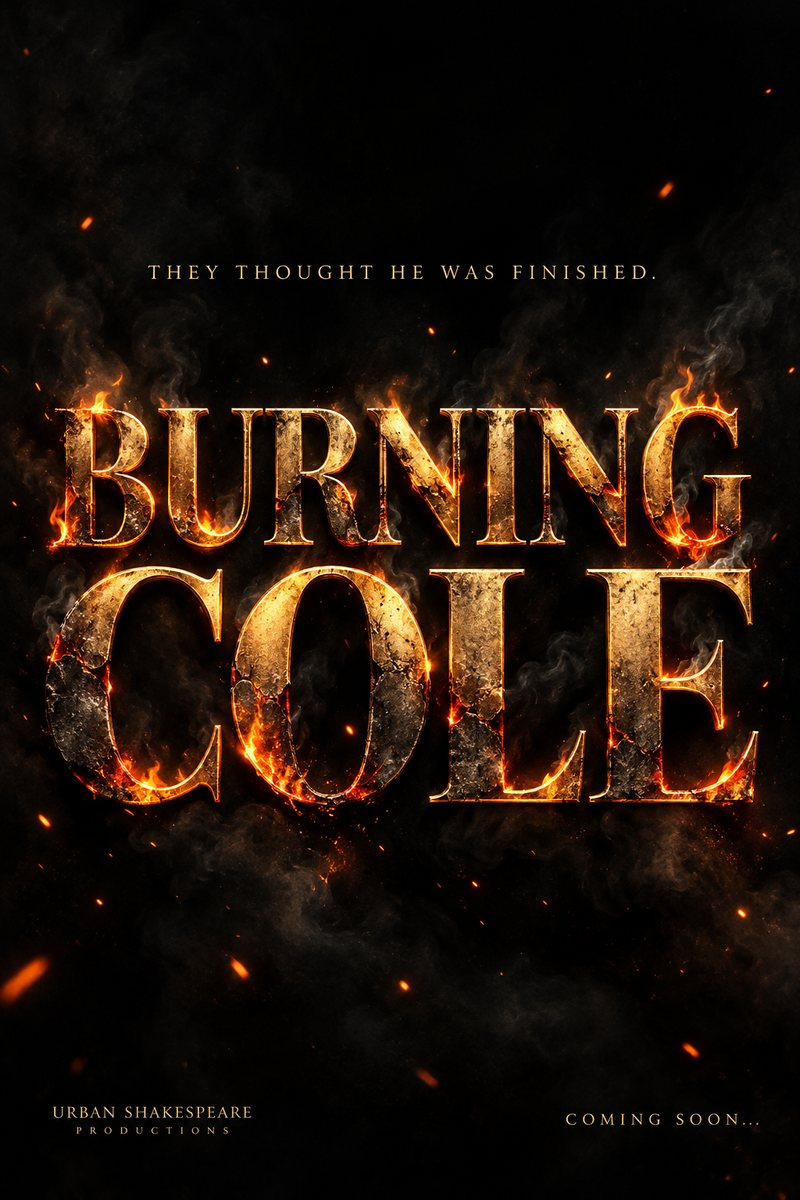
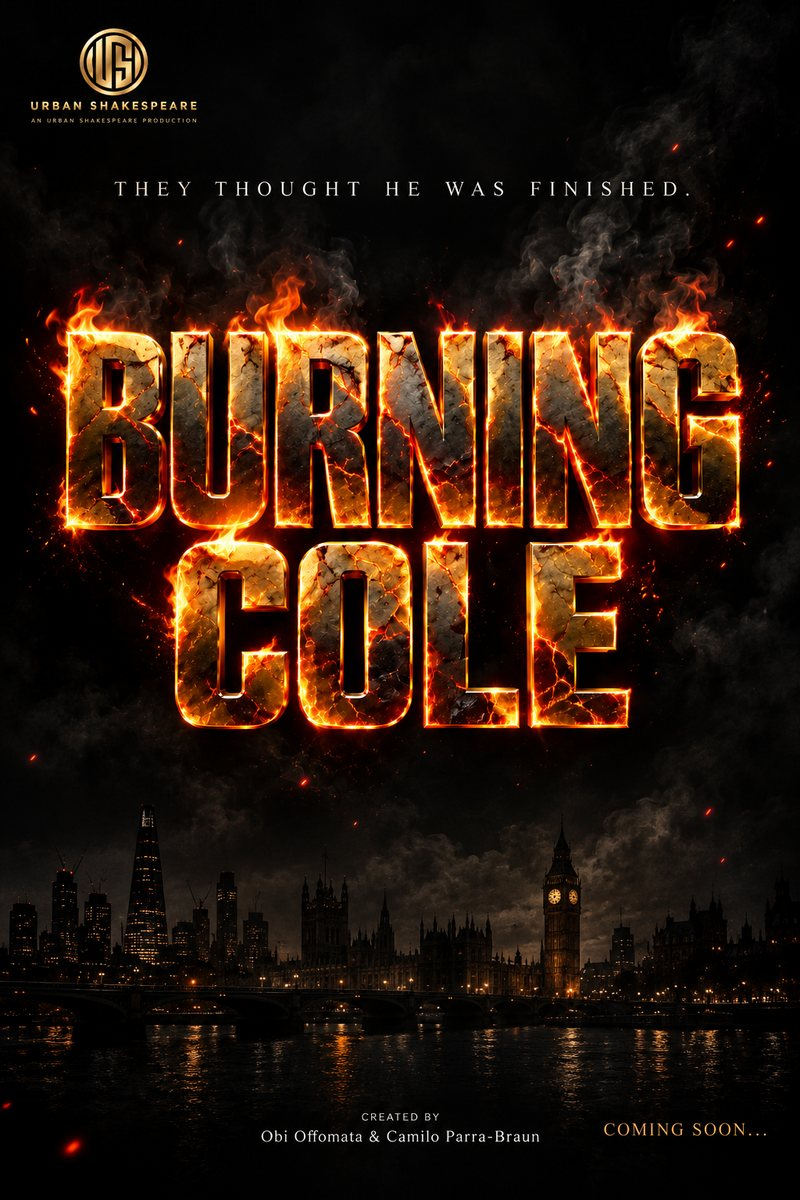
Replace Burning Cole posters with the recovered set
Claude-Session: https://claude.ai/code/session_013euigWjvx5WnN6LQU8fXHE

diff --git a/index.html b/index.html
@@ -254,7 +254,7 @@ footer .wrap{display:flex;justify-content:space-between;gap:20px;flex-wrap:wrap}
     <div class="row-head"><h2>Now in development</h2><a class="label" href="#slate">Full slate →</a></div>
     <div class="posters">
       <a class="poster p-cole art" href="#burning-cole">
-        <img class="key" src="posters/burning-cole-booth.jpg" alt="" width="800" height="1200">
+        <img class="key" src="posters/burning-cole-cole.jpg" alt="" width="800" height="1200">
         <span class="sr">Burning Cole, a dark comedy series. They thought he was finished.</span>
         <span class="status">Concept trailer</span>
       </a>
@@ -293,7 +293,7 @@ footer .wrap{display:flex;justify-content:space-between;gap:20px;flex-wrap:wrap}
     <h1 style="font-size:var(--step-4);font-weight:500;margin:12px 0 18px">Every project, one room each</h1>
     <p style="color:var(--dust);font-size:var(--step-1);font-weight:300">Open any title for its story, characters, episodes, trailer and artwork.</p>
     <div class="posters" style="margin-top:40px">
-      <a class="poster p-cole art" href="#burning-cole"><img class="key" src="posters/burning-cole-booth.jpg" alt="" width="800" height="1200"><span class="sr">Burning Cole, a dark comedy series</span><span class="status">Concept trailer</span></a>
+      <a class="poster p-cole art" href="#burning-cole"><img class="key" src="posters/burning-cole-cole.jpg" alt="" width="800" height="1200"><span class="sr">Burning Cole, a dark comedy series</span><span class="status">Concept trailer</span></a>
       <a class="poster p-ikenga" href="#ikenga"><span class="label genre">Crime action thriller</span><h3>Ikenga</h3><span class="status">In development</span></a>
       <a class="poster p-us" href="#collective"><span class="label genre">Drama</span><h3>Urban Shakespeare</h3><span class="status">Season one written</span></a>
       <a class="poster p-open" href="#join"><span class="label genre">Open slot</span><h3>Your story</h3><span class="status">Submissions open</span></a>
@@ -385,13 +385,13 @@ footer .wrap{display:flex;justify-content:space-between;gap:20px;flex-wrap:wrap}
     </div>
     <div class="panel" data-panel="artwork" hidden>
       <div class="artwall">
-        <figure><img src="posters/burning-cole-booth.jpg" alt="Burning Cole poster: Cole in a red velvet booth at Club 108" width="800" height="1200" loading="lazy"><figcaption>Cole at Club 108</figcaption></figure>
+        <figure><img src="posters/burning-cole-fall.jpg" alt="Burning Cole teaser poster: a man falling between an upside-down London and the burning title" width="800" height="1200" loading="lazy"><figcaption>Teaser: the fall</figcaption></figure>
+        <figure><img src="posters/burning-cole-title.jpg" alt="Burning Cole title poster in burning letters over the London skyline" width="800" height="1200" loading="lazy"><figcaption>Title poster</figcaption></figure>
+        <figure><img src="posters/burning-cole-cole.jpg" alt="Burning Cole poster: Cole on a rainy London night outside the club" width="800" height="1200" loading="lazy"><figcaption>Cole Sinclair</figcaption></figure>
         <figure><img src="posters/burning-cole-cast-street.jpg" alt="Burning Cole cast poster outside the club on a wet London night" width="800" height="1200" loading="lazy"><figcaption>The cast: outside the club</figcaption></figure>
+        <figure><img src="posters/burning-cole-cast-shattered.jpg" alt="Burning Cole cast poster with the cast framed in shards of broken glass" width="800" height="1200" loading="lazy"><figcaption>The cast: shattered glass</figcaption></figure>
+        <figure><img src="posters/burning-cole-cast-group.jpg" alt="Burning Cole cast poster with the cast on a London street at night" width="800" height="1200" loading="lazy"><figcaption>The cast: London streets</figcaption></figure>
         <figure><img src="posters/burning-cole-cast-lounge.jpg" alt="Burning Cole cast poster in the club's VIP lounge" width="800" height="1200" loading="lazy"><figcaption>The cast: VIP lounge</figcaption></figure>
-        <figure><img src="posters/burning-cole-city-fall.jpg" alt="Burning Cole teaser poster: a man falling between an upside-down London skyline and the burning city below" width="800" height="1200" loading="lazy"><figcaption>Teaser: London falls</figcaption></figure>
-        <figure><img src="posters/burning-cole-key-art.jpg" alt="Burning Cole key art: Cole on a rainy London night, with Club 108 and the cast behind him" width="800" height="1200" loading="lazy"><figcaption>Key art</figcaption></figure>
-        <figure><img src="posters/burning-cole-title.jpg" alt="Burning Cole title poster in burning gold letters" width="800" height="1200" loading="lazy"><figcaption>Title poster</figcaption></figure>
-        <figure><img src="posters/burning-cole-fall.jpg" alt="Burning Cole teaser poster: a man falling through smoke towards the burning title" width="800" height="1200" loading="lazy"><figcaption>Teaser: the fall</figcaption></figure>
       </div>
     </div>
   </div>
